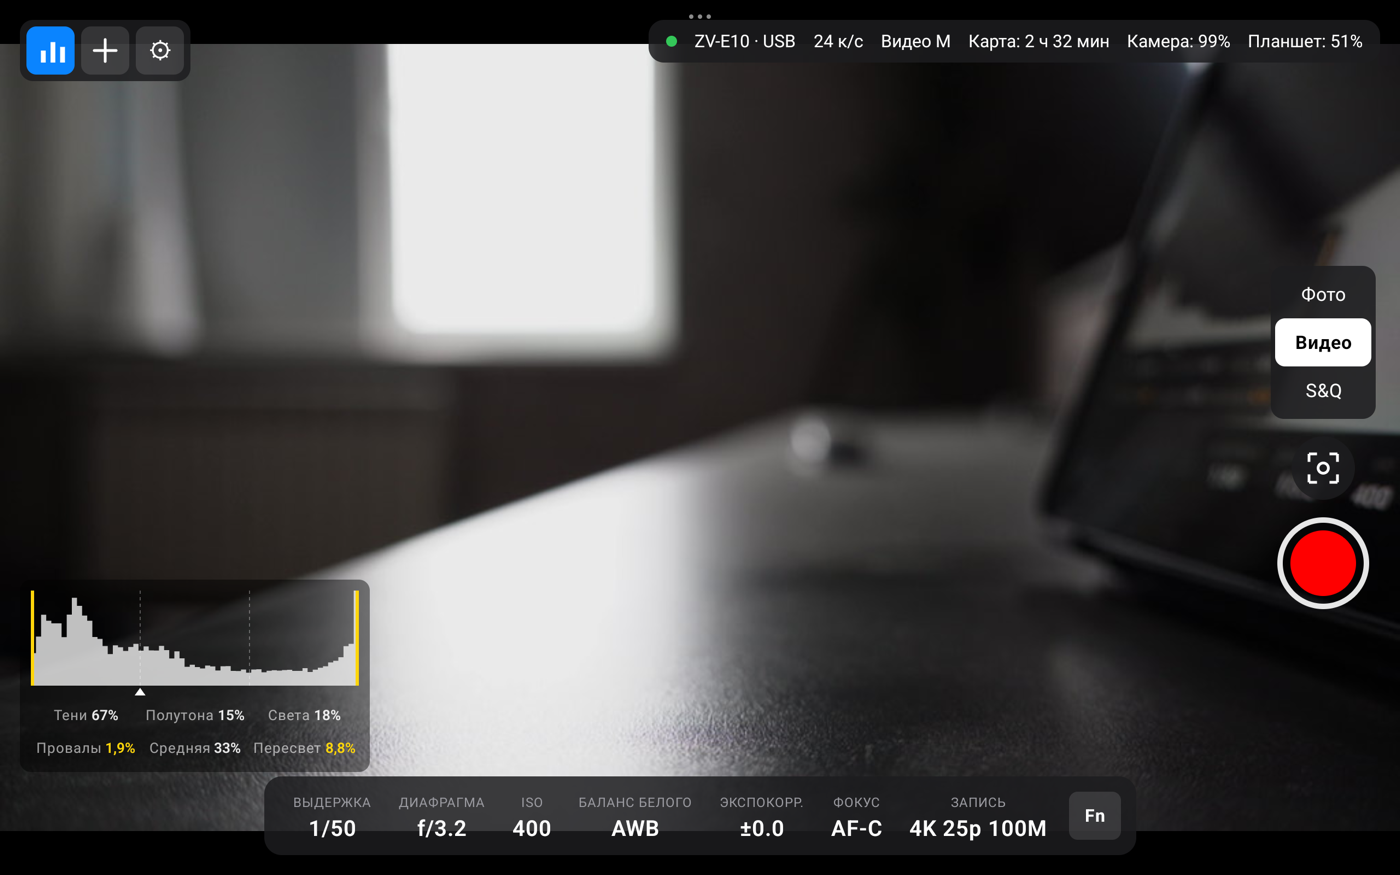
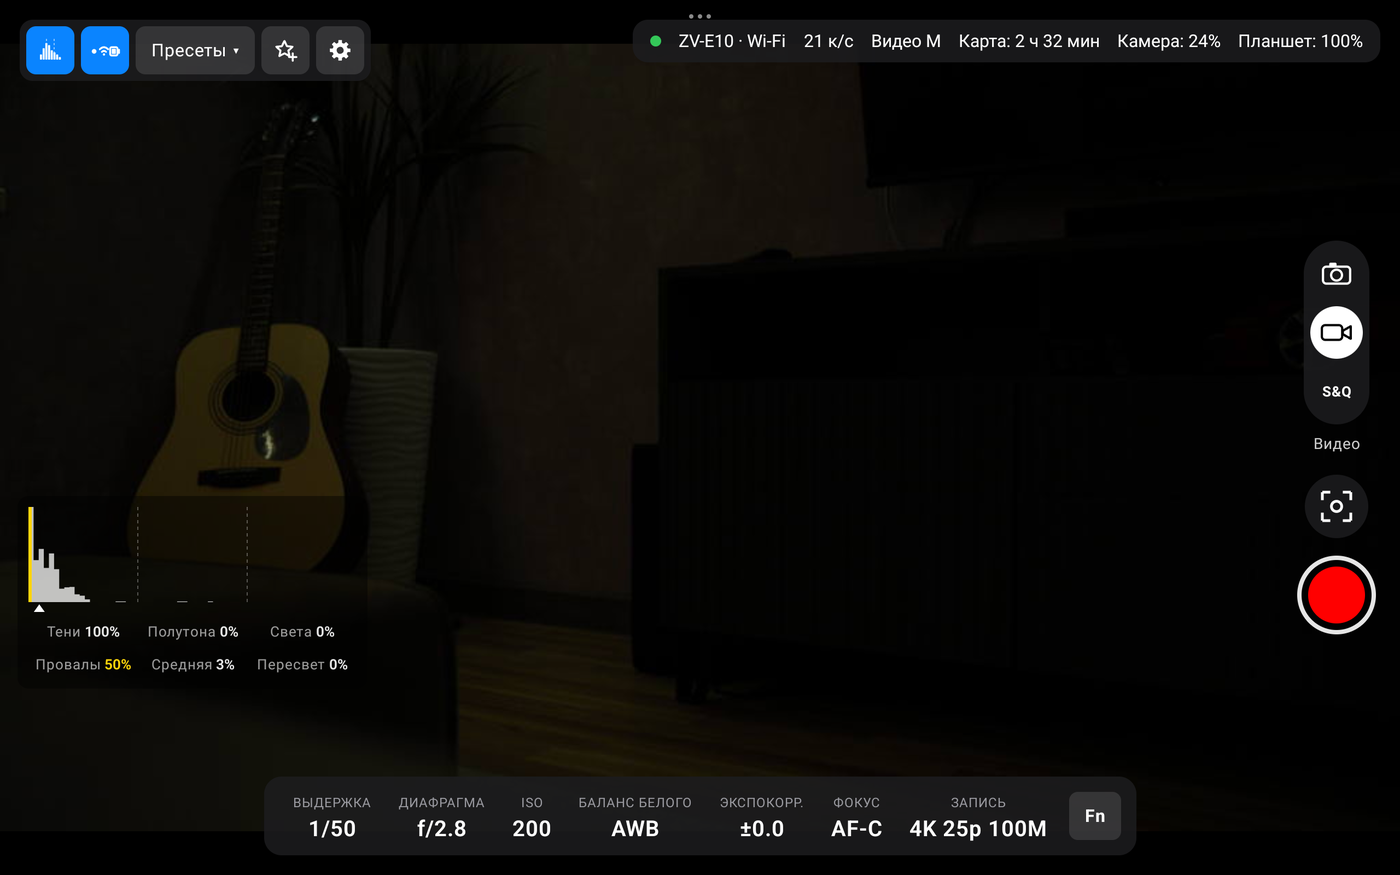
docs: new tablet screenshots — main screen, Fn menu and the presets window
Taken on the fake camera (the fixture frame that already lives in the repo),
so no private room or recent shots show; they match 0.5.2: the preset
button, the icon mode switch and the smaller record button. The presets
window shot goes into the README and the presets section of the guide.

diff --git a/docs/user-guide.md b/docs/user-guide.md
@@ -312,6 +312,8 @@ Sony Cam Viewer показывает живое видео с камеры Sony 
 
 Слева — список пресетов, справа — выбранный. Всё сохраняется сразу, кнопки «Сохранить» нет.
 
+![Окно «Пресеты» на планшете](screenshots/8-android-presets.png)
+
 - Имя правится прямо в поле.
 - Порядок меняется перетаскиванием в списке. Номер пресета — это и его цифра 1–9.
 - «Применить» ставит пресет на камеру. «Посмотреть» — быстрый просмотр: пока кнопку держите, окно прозрачно, а пресет стоит на камере, и видно, как с ним выглядит картинка; отпустите — то, что ещё не записано, не пишется, а камера возвращается как была. Понравилось — «Применить». «Взять с камеры» заменяет значения пресета тем, как камера настроена сейчас. «Дублировать» кладёт копию следом за пресетом. «Удалить…» сначала спрашивает. «Сохранить текущие» под списком делает новый пресет с камеры, и его имя сразу можно править.

diff --git a/README.md b/README.md
@@ -47,6 +47,10 @@
 |---|---|
 | ![Mac: меню Fn с балансом белого](docs/screenshots/2-fn.png) | ![Android: меню Fn](docs/screenshots/7-android-fn.png) |
 
+| Окно пресетов на планшете |
+|---|
+| ![Android: окно пресетов](docs/screenshots/8-android-presets.png) |
+
 | Все настройки | Фоторежим | Просмотр после съёмки |
 |---|---|---|
 | ![Все настройки](docs/screenshots/3-all.png) | ![Фоторежим](docs/screenshots/4-photo.png) | ![Просмотр снимка](docs/screenshots/5-review.png) |
